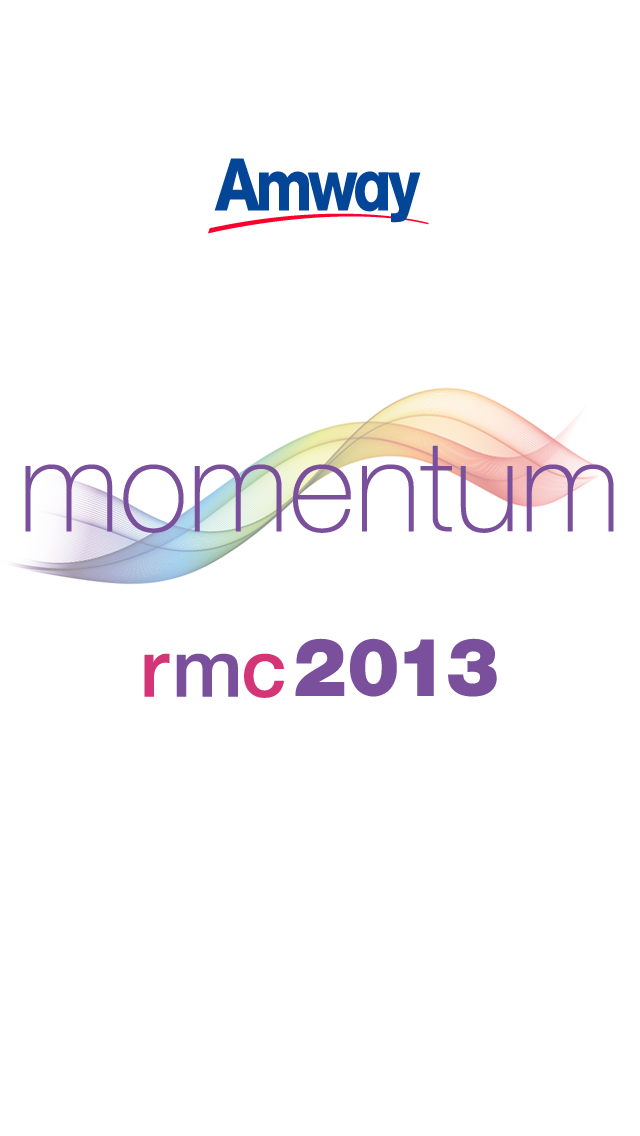
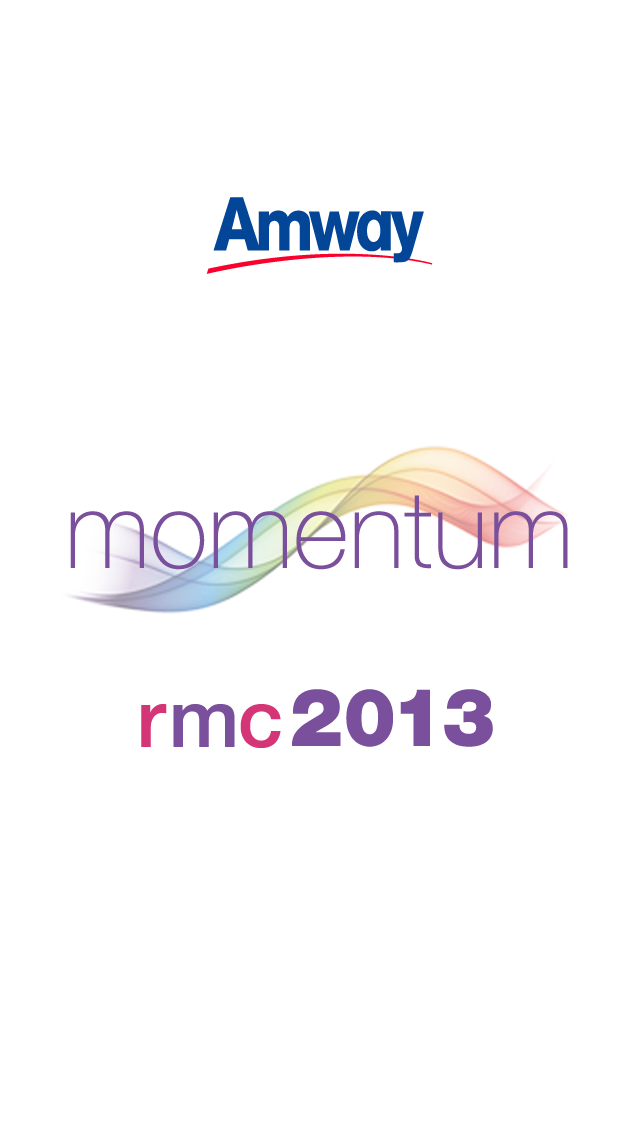
* New splash screens. * Tidy up wall and add last updated time. * Prepare for wall paging. * Trip Advisor select box.

Changed region(s): [[0.0312, 0.3389, 0.9688, 0.6778], [0.3125, 0.1232, 0.6562, 0.2465]]

diff --git a/Amway Momentum/scripts/apiConnect.js b/Amway Momentum/scripts/apiConnect.js
@@ -46,6 +46,33 @@ function loadHospitality() {
 }
 
 
+// Handle tripadvisor request
+function tripAdvisor() {
+	
+	var country = $("#taCountry").val();
+	var taButtonLink = taButtonText = '';
+	
+	if(country == 1) {
+		taButtonLink = "https://itunes.apple.com/in/app/tripadvisor-offline-city-guides/id480066121";
+		taButtonText = "India";
+    } else if(country == 2) {
+		taButtonLink = "https://itunes.apple.com/de/app/tripadvisor-offline-city-guides/id480066121";
+		taButtonText = "Germany";
+    } else if(country == 3) {
+		taButtonLink = "https://itunes.apple.com/de/app/tripadvisor-offline-city-guides/id480066121";
+		taButtonText = "the UK";
+    } else if(country == 4) {
+		taButtonLink = "https://itunes.apple.com/de/app/tripadvisor-offline-city-guides/id480066121";
+		taButtonText = "Russia";
+    } else {
+		taButtonLink = "https://itunes.apple.com/de/app/tripadvisor-offline-city-guides/id480066121";
+		taButtonText = "the USA";
+    }
+	
+	// Add in the button!
+	$("#taLinkButton").html("<p><center><a onclick=\"window.open('" + taButtonLink + "','_blank');\" style='text-decoration: underline'>TripAdvisor App for " + taButtonText + "</a></center></p>");
+}
+
 // Load workshop list
 function loadWorkshopList() {
 	
@@ -139,74 +166,87 @@ function loadWall() {
 	// Make sure the navigation is showing
 	$('.km-footer').show();
 
-	var wallPosts = '';
-	var uid = window.localStorage.getItem("userShortId");
-	
 	$.ajax({
-	url: 'http://amway.650h.co.uk/index/default/getWallposts/' + uid + '/0/20',
+	url: 'http://amway.650h.co.uk/index/default/getWallposts/0/20',
 	error: handleAjaxError, cache: false}).done(function(data) {
 		
-		// Build the lists of wall posts
-		$.each(data, function(i,item) {
-			
-			var pid = item.wallpostId,
-				ptx = item.postText,
-				nck = item.nickname;
-			
-			wallPosts = wallPosts + '<a href="#tabstrip-viewPost" onClick="window.localStorage.setItem(\'pid\', ' + pid + ');">' +
-									'<div class="wallPost wallPostOnWall rightNavArrow">';
-			
-			if(item.image != '') {
-				wallPosts = wallPosts + '<table width="100%"><tr>' +
-							'<td width="100"><img src="http://amway.650h.co.uk' + item.image + '" width="100px" /></td>' +
-							'<td><p><b>' + nck + ':</b> ' + ptx + '</p></td></tr>';
-			} else {
-				wallPosts = wallPosts + '<table width="100%"><tr>' +
-							'<td colspan="2"><p><strong>' + nck + ':</strong> ' + ptx + '</p></td></tr>';
-			}
-			
-			wallPosts = wallPosts + '<tr><td colspan="2"><p class="likesComments">';
-			
-			// Like button
-			
-			// 1 like, 2 likes
-			var likeText = ' likes';
-			if(item.numberLikes == 1) {
-				likeText = ' like';
-			}
-			
-			if(item.likedByThisUser) {
-				wallPosts = wallPosts + '<span class="likeButton buttonSelected" id="likeButton'+pid+'">' +
-										'<a href="javascript: void(0);" onClick="postUnlike('+pid+','+uid+');"><span id="currentLikes'+pid+'">'+item.numberLikes+likeText+'</span></a></span>';
-            } else {
-				wallPosts = wallPosts + '<span class="likeButton" id="likeButton'+pid+'">' +
-										'<a href="javascript: void(0);" onClick="postLike('+pid+','+uid+');"><span id="currentLikes'+pid+'">'+item.numberLikes+likeText+'</span></a></span>';
-			}
-			
-			// Comment button
-			
-			// 1 comment, 2 comments
-			// Button selected?
-			
-			var commentText = ' comments',
-				buttonSelected = '';
-			
-			if(item.numberComments > 0) {
-				buttonSelected = " buttonSelected";
-				if(item.numberComments == 1) {
-					commentText = ' comment';
-				}
-			}
-			
-			wallPosts = wallPosts + '<span class="commentButton'+buttonSelected+'"><a href="javascript: void(0);">'+item.numberComments+commentText+'</a></span>';
-			
-			// Likes & comments count
-			wallPosts = wallPosts + '</p></td></tr></table></div></a>';
-		});
+		var wallPosts = '';
+		var data = eval(data);
+		
+		wallPosts = buildWallView(data.posts);
 		
 		$("#wallPosts").html(wallPosts);
 	});
 }
+
+
+// Build a wall post view (for paging)
+function buildWallView(posts) {
+	
+	var wallPosts = '';
+	var uid = window.localStorage.getItem("userShortId");
+	
+	// Build the lists of wall posts
+	$.each(posts, function(i,item) {
+		
+		var pid = item.wallpostId,
+			ptx = item.postText,
+			nck = item.nickname;
+		
+		wallPosts = wallPosts + '<a href="#tabstrip-viewPost" onClick="window.localStorage.setItem(\'pid\', ' + pid + ');">' +
+								'<div class="wallPost wallPostOnWall rightNavArrow">';
+		
+		if(item.image != '') {
+			wallPosts = wallPosts + '<table width="100%"><tr>' +
+						'<td width="100"><img src="http://amway.650h.co.uk' + item.image + '" width="100px" /></td>' +
+						'<td valign="top"><p class="postText"><b>' + nck + ':</b> ' + ptx + '</p></td></tr>';
+		} else {
+			wallPosts = wallPosts + '<table width="100%"><tr>' +
+						'<td width="100">&nbsp;</td><td><p class="postText"><strong>' + nck + ':</strong> ' + ptx + '</p></td></tr>';
+		}
+		
+		wallPosts = wallPosts + '<tr><td><p class="lastUpdated"><nobr>' + item.lastUpdated + '</nobr></p><td><p class="likesComments">';
+		
+		// Like button
+		
+		// 1 like, 2 likes
+		var likeText = ' likes';
+		if(item.numberLikes == 1) {
+			likeText = ' like';
+		}
+		
+		if(item.likedByThisUser) {
+			wallPosts = wallPosts + '<span class="likeButton buttonSelected" id="likeButton'+pid+'">' +
+									'<a href="javascript: void(0);" onClick="postUnlike('+pid+','+uid+');"><span id="currentLikes'+pid+'">'+item.numberLikes+likeText+'</span></a></span>';
+        } else {
+			wallPosts = wallPosts + '<span class="likeButton" id="likeButton'+pid+'">' +
+									'<a href="javascript: void(0);" onClick="postLike('+pid+','+uid+');"><span id="currentLikes'+pid+'">'+item.numberLikes+likeText+'</span></a></span>';
+		}
+		
+		// Comment button
+		
+		// 1 comment, 2 comments
+		// Button selected?
+		
+		var commentText = ' comments',
+			buttonSelected = '';
+		
+		if(item.numberComments > 0) {
+			buttonSelected = " buttonSelected";
+			if(item.numberComments == 1) {
+				commentText = ' comment';
+			}
+		}
+		
+		wallPosts = wallPosts + '<span class="commentButton'+buttonSelected+'"><a href="javascript: void(0);">'+item.numberComments+commentText+'</a></span>';
+		
+		// Likes & comments count
+		wallPosts = wallPosts + '</p></td></tr></table></div></a>';
+	});
+	
+	return wallPosts;
+}
+
 
 // View a specific wallpost, along with likes and comments
 function viewPost() {
@@ -387,8 +427,7 @@ function deletePostDo() {
 		navigator.notification.alert('Your post, along with all comments and likes, has been deleted.', function () { }, 'Deletion sucessful', 'OK');
 		
 		// Navigate back to the wall
-		var app = new kendo.mobile.Application();
-		app.navigate("#tabstrip-wall");
+		app.application.navigate("#tabstrip-wall");
 	});
 	
 }

diff --git a/Amway Momentum/index.html b/Amway Momentum/index.html
@@ -61,7 +61,7 @@
 					
 					<div>
 						<p>Need help logging in? Please visit the hospitality desk.</p>
-						<p>v1.11</p>
+						<p>v1.12</p>
                     </div>
 				
 					<div class="amway"></div>
@@ -315,10 +315,19 @@
 				<div id="introText" style="text-align: left">&nbsp;</div>
 				<h1><div id="visitTitle">&nbsp;</div></h1>
 				<div id="visitText" style="text-align: left">&nbsp;</div>
-				<p><center><a onclick="window.open('https://en.wikipedia.org/wiki/Taj_mahal','_system');" data-role="button">Wikipedia page</a></center></p>
+				<p><center><a onclick="window.open('https://en.wikipedia.org/wiki/Taj_mahal','_blank');" data-role="button">Wikipedia page</a></center></p>
 				<h1><div id="tripadvisorTitle">&nbsp;</div></h1>
 				<div id="tripadvisorText" style="text-align: left">&nbsp;</div>
-				<p><center><a onclick="window.open('http://cityguides.tripadvisor.com','_blank');" data-role="button">TripAdvisor New Delhi</a></center></p>
+				<h4>Please select your country to download your TripAdvisor guide to New Delhi</h4>
+				<select name="taCountry" id="taCountry">
+					<option value="1">India</option>
+					<option value="2">Germany</option>
+					<option value="3">UK</option>
+					<option value="4">Russia</option>
+					<option value="5">USA</option>
+                </select>
+				<input type="submit" value="go" onclick="javascript: tripAdvisor(); return false;" />
+				<div id="taLinkButton" style="text-align: left">&nbsp;</div>
 				<p style="text-align: left">In case your Apple itunes account is associated to another country than the above mentioned in the dropdown, please download the Tripadvisor City Guides app in your appstore account and install the New Delhi maps.</p>
 			</div>
 			

diff --git a/Amway Momentum/scripts/login.js b/Amway Momentum/scripts/login.js
@@ -132,15 +132,13 @@
 	
 	// Navigate to home after logging out.
 	function navigateToHome() {
-		var app = new kendo.mobile.Application();
-		app.navigate("#tabstrip-home");
+		app.application.navigate("#tabstrip-home");
 		hideNavigation();
 	}
 	
 	// Navigate to the wallpost after creation.
 	function navigateToWall() {
-		var app = new kendo.mobile.Application();
-		app.navigate("#tabstrip-wall");
+		app.application.navigate("#tabstrip-wall");
 	}
 	
 })(window);

diff --git a/Amway Momentum/scripts/app.js b/Amway Momentum/scripts/app.js
@@ -9,12 +9,11 @@
 		navigator.splashscreen.hide();
     }, false);
 
-    var app = new kendo.mobile.Application(document.body, {
+    app.application = new kendo.mobile.Application(document.body, {
 		layout: "tabstrip-layout",
 		statusBarStyle: statusBarStyle,
+		plaform: "ios"
 		//useNativeScrolling: true
 	});
-	
-	app.navigate('#tabstrip-workshops');
 
 })(window);

diff --git a/Amway Momentum/styles/main.css b/Amway Momentum/styles/main.css
@@ -93,8 +93,17 @@ textarea {
 	text-align: left;
 	margin-bottom: 0;
 }
+.wallPost .lastUpdated {
+	margin-top: 4px;
+	font-size: 0.7em;
+}
+.wallPost .postText {
+	padding-right: 0.5em;
+}
 .wallPost .likesComments {
 	margin-top: 4px;
+	padding-right: 0.5em;
+	text-align: right;
 }
 .likeButton {
 	-webkit-border-radius: 5px;
